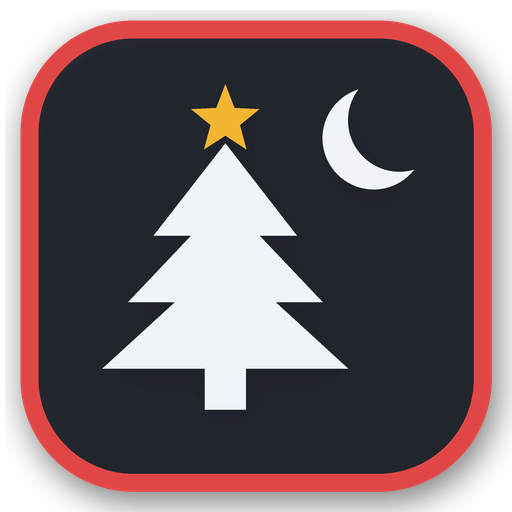
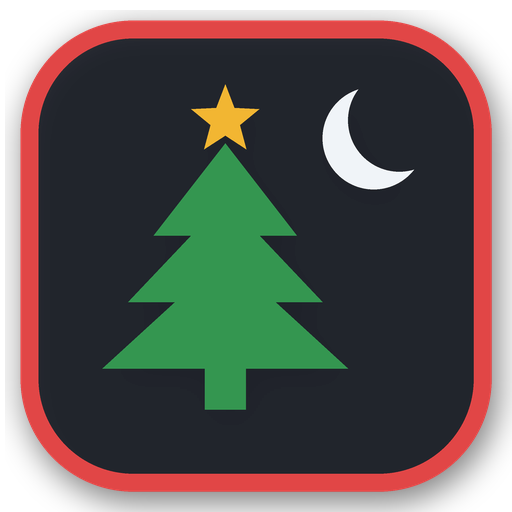
docs: green Christmas tree in the dark variant badges too
Claude-Session: https://claude.ai/code/session_01TPtXe8YEjXWuXNmFgmXabW

Changed region(s): [[0.1875, 0.2812, 0.6875, 0.8125]]

diff --git a/tools/variant_badges.py b/tools/variant_badges.py
@@ -20,7 +20,7 @@ BG = (14, 19, 27, 215)      # badge background
 WHITE = (240, 244, 248, 255)
 # light theme: very light grey background, the glyph in the badge's own border colour
 BG_LIGHT = (242, 243, 245, 250)
-# the Christmas tree is drawn in this (practically white) colour, so the light theme can find it and paint it green
+# the Christmas tree is drawn in this marker colour, so badge() can find it and paint it green
 TREE = (239, 244, 248, 255)
 TREE_GREEN = (52, 150, 80)
 VARIANTS = {
@@ -209,18 +209,18 @@ def badge(name, size=512, light=False):
     d.rounded_rectangle([pad, pad, S-pad, S-pad], radius=rad, fill=accent + (255,))
     d.rounded_rectangle([pad+bw, pad+bw, S-pad-bw, S-pad-bw], radius=rad-bw, fill=BG_LIGHT if light else BG)
     g = Image.new('RGBA', (S, S), (0, 0, 0, 0)); GLYPHS[glyph](ImageDraw.Draw(g), S)
+    r, gg, b, a = g.split()
     if light:
         # paint the white parts of the glyph in the border colour; coloured accents (gold star, red lantern ...) keep theirs
-        r, gg, b, a = g.split()
         white = Image.eval(Image.merge('RGB', (r, gg, b)).convert('L'), lambda v: 255 if v > 225 else 0)
         ink = Image.new('RGBA', (S, S), accent + (255,)); ink.putalpha(Image.composite(a, Image.new('L', (S, S), 0), white))
         g = Image.composite(ink, g, white)
-        if glyph in ('tree', 'tree_moon'):
-            # the Christmas tree itself is green in the light theme (found by its exact drawing colour)
-            diff = ImageChops.difference(Image.merge('RGB', (r, gg, b)), Image.new('RGB', (S, S), TREE[:3])).split()
-            tm = ImageChops.lighter(ImageChops.lighter(diff[0], diff[1]), diff[2]).point(lambda v: 255 if v == 0 else 0)
-            green = Image.new('RGBA', (S, S), TREE_GREEN + (255,)); green.putalpha(Image.composite(a, Image.new('L', (S, S), 0), tm))
-            g = Image.composite(green, g, tm)
+    if glyph in ('tree', 'tree_moon'):
+        # the Christmas tree itself is green in both themes (found by its exact drawing colour)
+        diff = ImageChops.difference(Image.merge('RGB', (r, gg, b)), Image.new('RGB', (S, S), TREE[:3])).split()
+        tm = ImageChops.lighter(ImageChops.lighter(diff[0], diff[1]), diff[2]).point(lambda v: 255 if v == 0 else 0)
+        green = Image.new('RGBA', (S, S), TREE_GREEN + (255,)); green.putalpha(Image.composite(a, Image.new('L', (S, S), 0), tm))
+        g = Image.composite(green, g, tm)
     im.alpha_composite(g)
     im = im.resize((size, size), Image.LANCZOS)
     # soft shadow so the badge reads on bright covers too

diff --git a/docs/variant-badges.md b/docs/variant-badges.md
@@ -10,7 +10,7 @@ Small icons in the top-right corner of a Workshop cover image. They show at a gl
 | <img src="./images/badges/badge_night_512.png" width="48"> | `night` | Clear night | purple |
 | <img src="./images/badges/badge_night_rain_512.png" width="48"> | `night_rain` | Rainy night | blue-purple |
 | <img src="./images/badges/badge_winter_512.png" width="48"> | `winter` | Winter, snow | ice blue |
-| <img src="./images/badges/badge_xmas_512.png" width="48"> | `xmas` | Christmas edition | red |
+| <img src="./images/badges/badge_xmas_512.png" width="48"> | `xmas` | Christmas edition (green tree, gold star) | red |
 | <img src="./images/badges/badge_night_xmas_512.png" width="48"> | `night_xmas` | Christmas edition at night | red |
 | <img src="./images/badges/badge_halloween_512.png" width="48"> | `halloween` | Halloween edition | orange |
 | <img src="./images/badges/badge_easter_512.png" width="48"> | `easter` | Easter edition | green |
@@ -26,7 +26,7 @@ Small icons in the top-right corner of a Workshop cover image. They show at a gl
 
 ## Usage
 
-The badge images (512 px, transparent) are in [`images/badges/`](./images/badges/), for use in an image editor. Every badge also has a **light** version (`badge_<key>_light_512.png`): a very light grey background, with the glyph drawn in the badge's border colour (the Christmas tree is green), for bright covers. To stamp them onto a cover image:
+The badge images (512 px, transparent) are in [`images/badges/`](./images/badges/), for use in an image editor. Every badge also has a **light** version (`badge_<key>_light_512.png`): a very light grey background, with the glyph drawn in the badge's border colour, for bright covers. To stamp them onto a cover image:
 
 ```
 python3 tools/variant_badges.py stamp cover.png cover_badges.png day,night_rain
